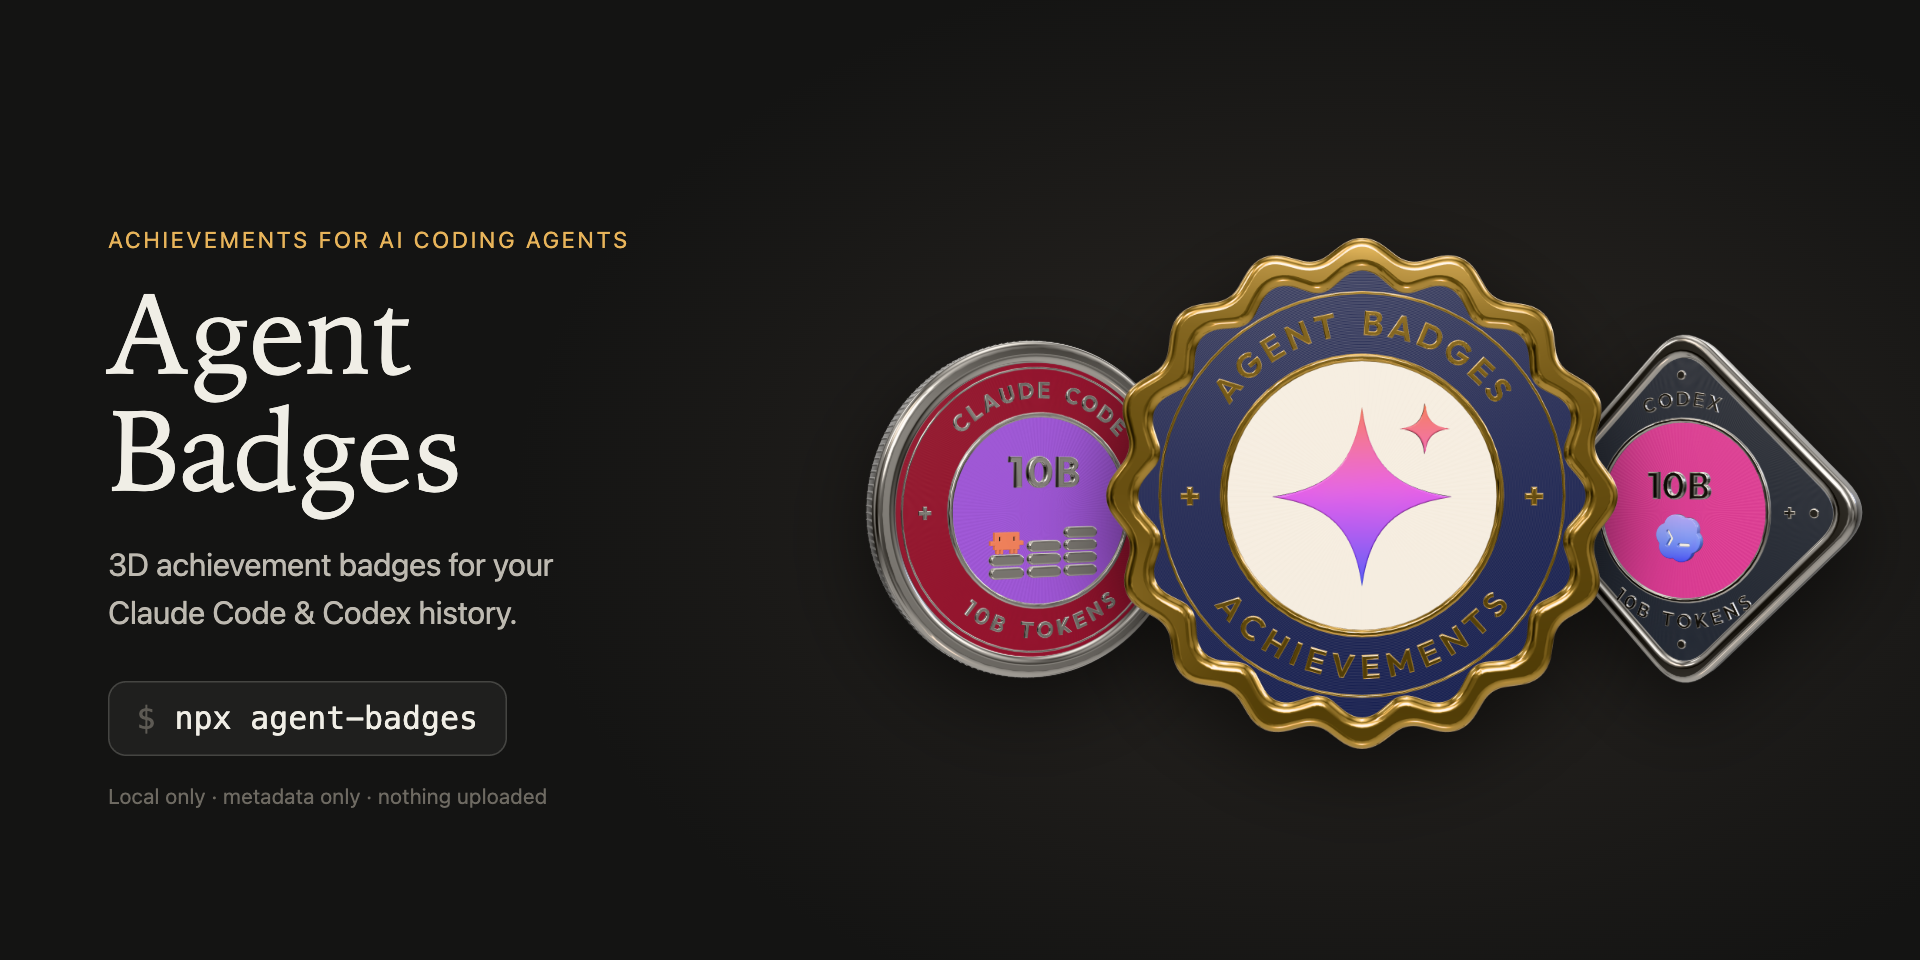
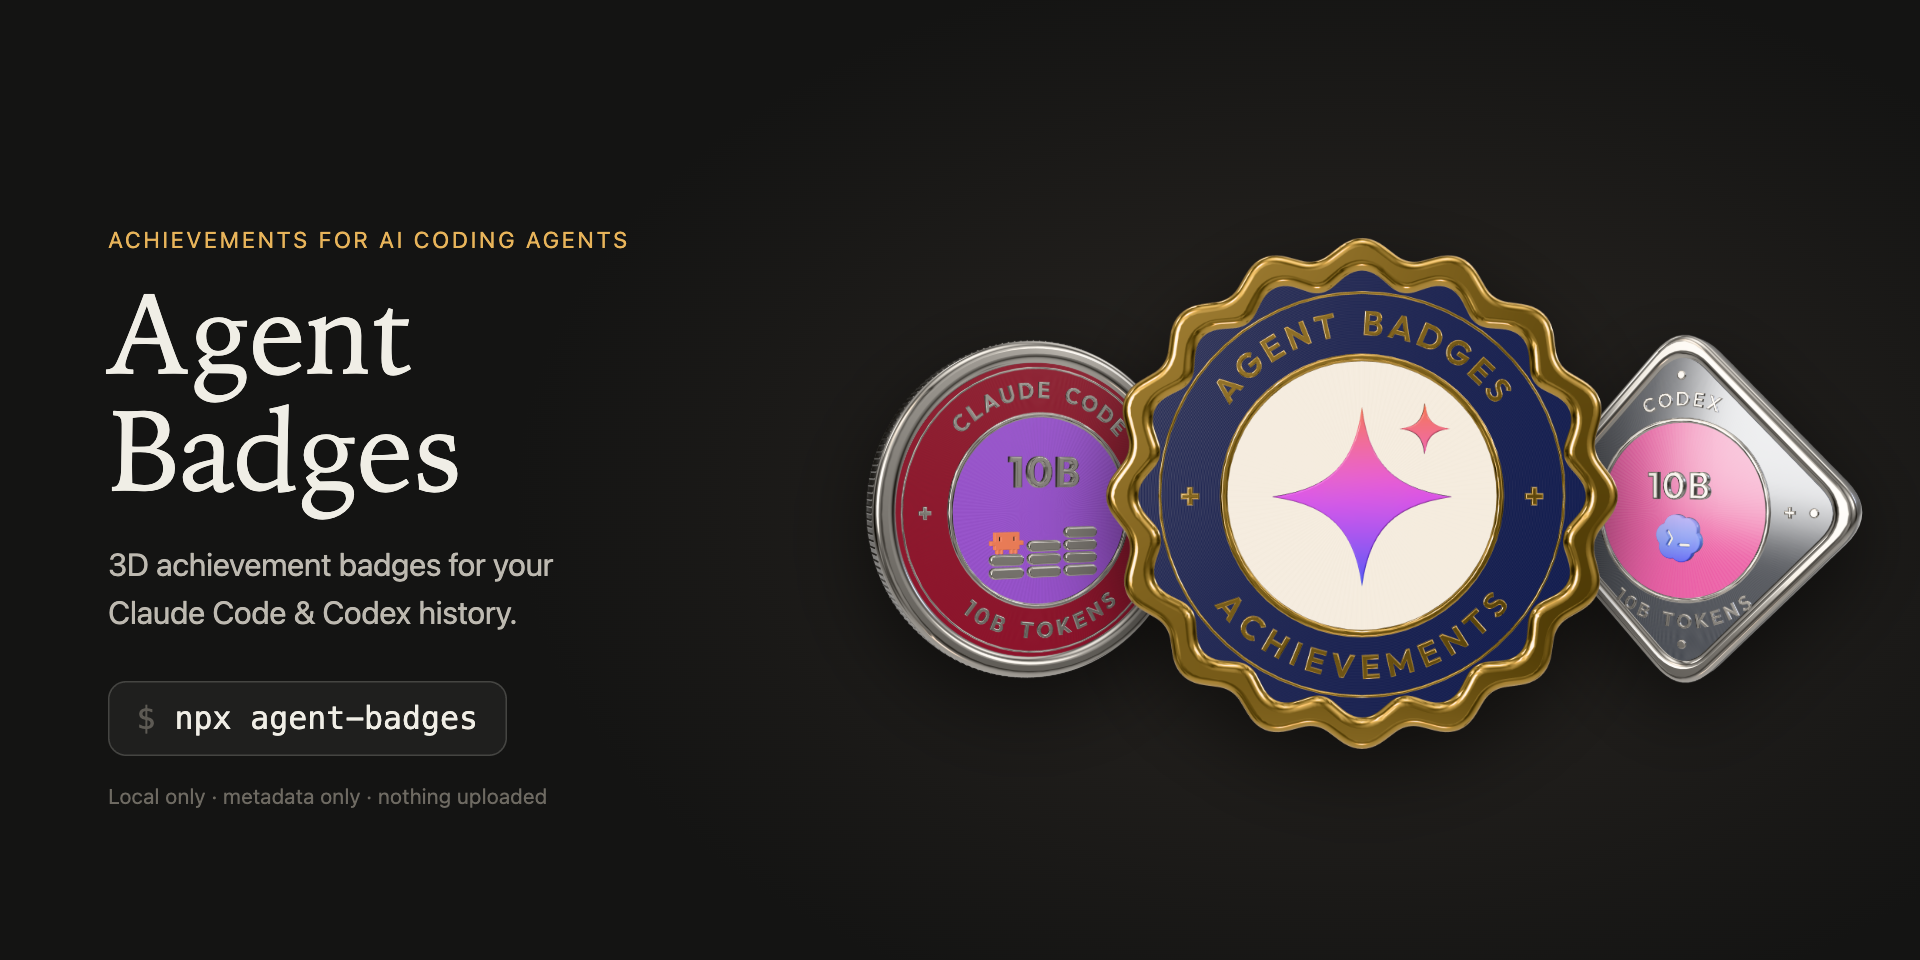
fix: badge materials use the scene's environment rotation, so highlights come from the upper left again
Giving a material its own envMap makes three.js read material.envMapRotation
instead of scene.environmentRotation, so the intended rotation never reached
the badges and flat faces caught the light box head-on. Assets regenerated.

Changed region(s): [[0.4375, 0.25, 0.9688, 0.7812], [0.7188, 0.625, 0.75, 0.6562]]

diff --git a/src/viewer/scene.js b/src/viewer/scene.js
@@ -86,11 +86,14 @@ export function createStage(canvas) {
   /**
    * 场景环境贴图会覆盖材质自己的 envMapIntensity，
    * 所以给徽章材质显式挂上环境贴图，让珐琅、陶瓷可以单独调低反射。
+   * 材质有了自己的环境贴图后，three.js 改用材质的 envMapRotation，
+   * 不再读 scene.environmentRotation，所以要把场景的旋转抄过来，灯箱才会在左上方。
    */
   function applyEnvironment(object) {
     object.traverse((o) => {
       if (!o.isMesh || o.material.envMap) return;
       o.material.envMap = envMap;
+      o.material.envMapRotation.copy(scene.environmentRotation);
       o.material.envMapIntensity *= ENV_INTENSITY;
       o.material.needsUpdate = true;
     });
